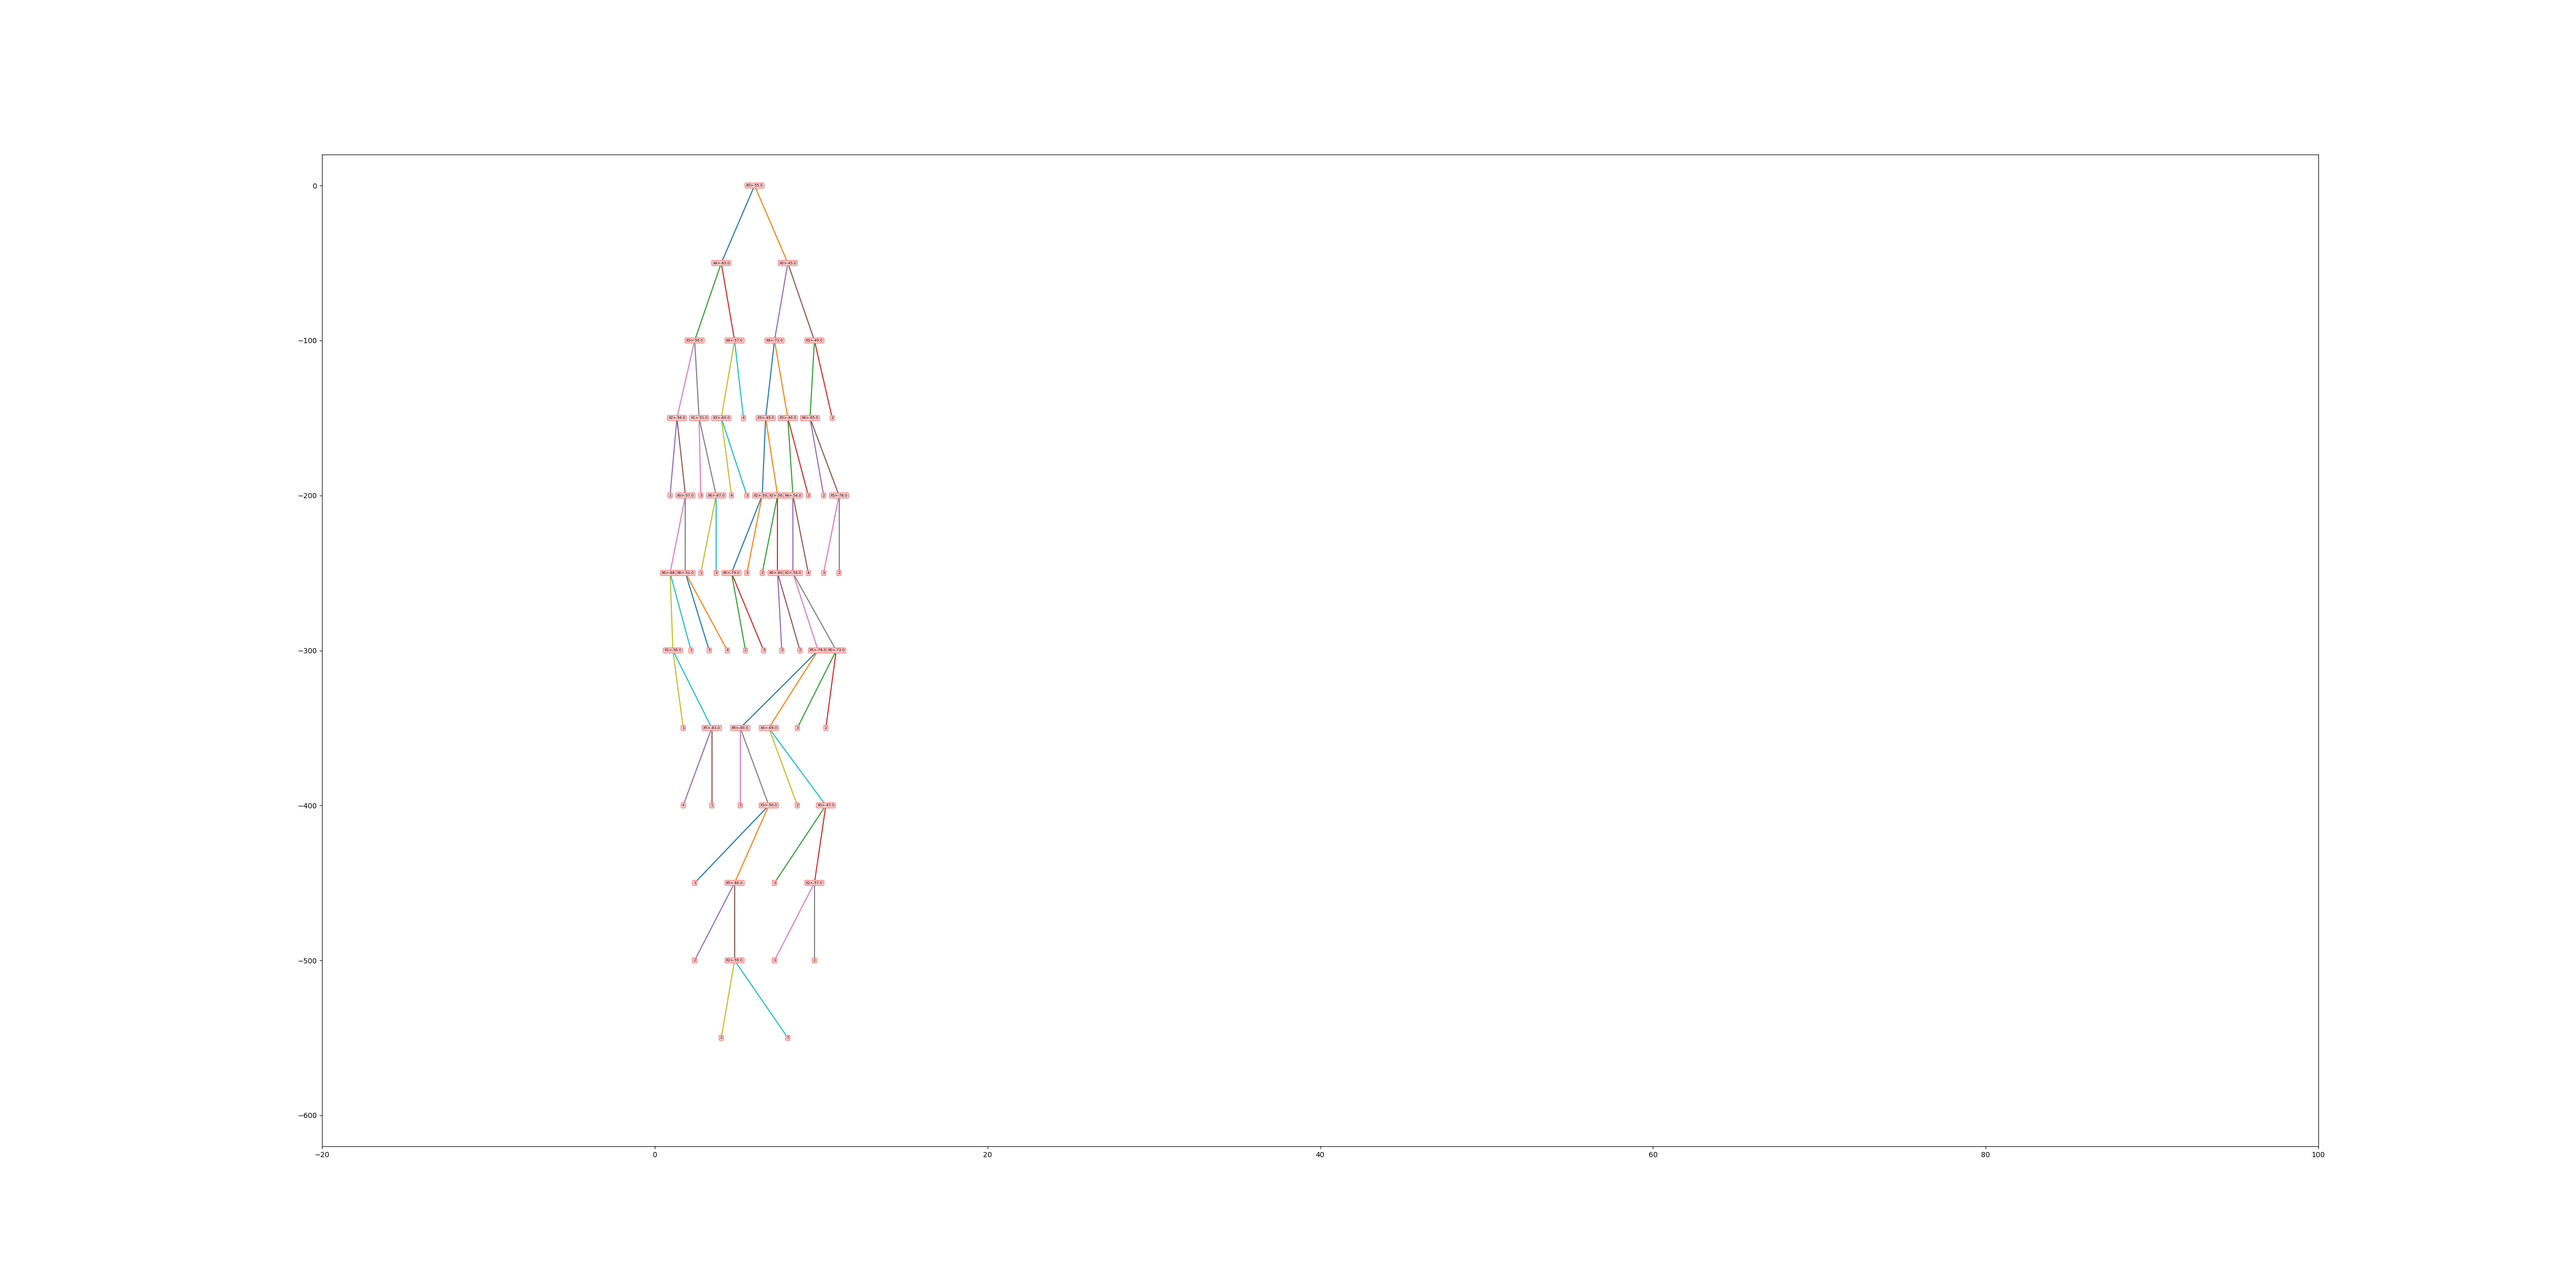
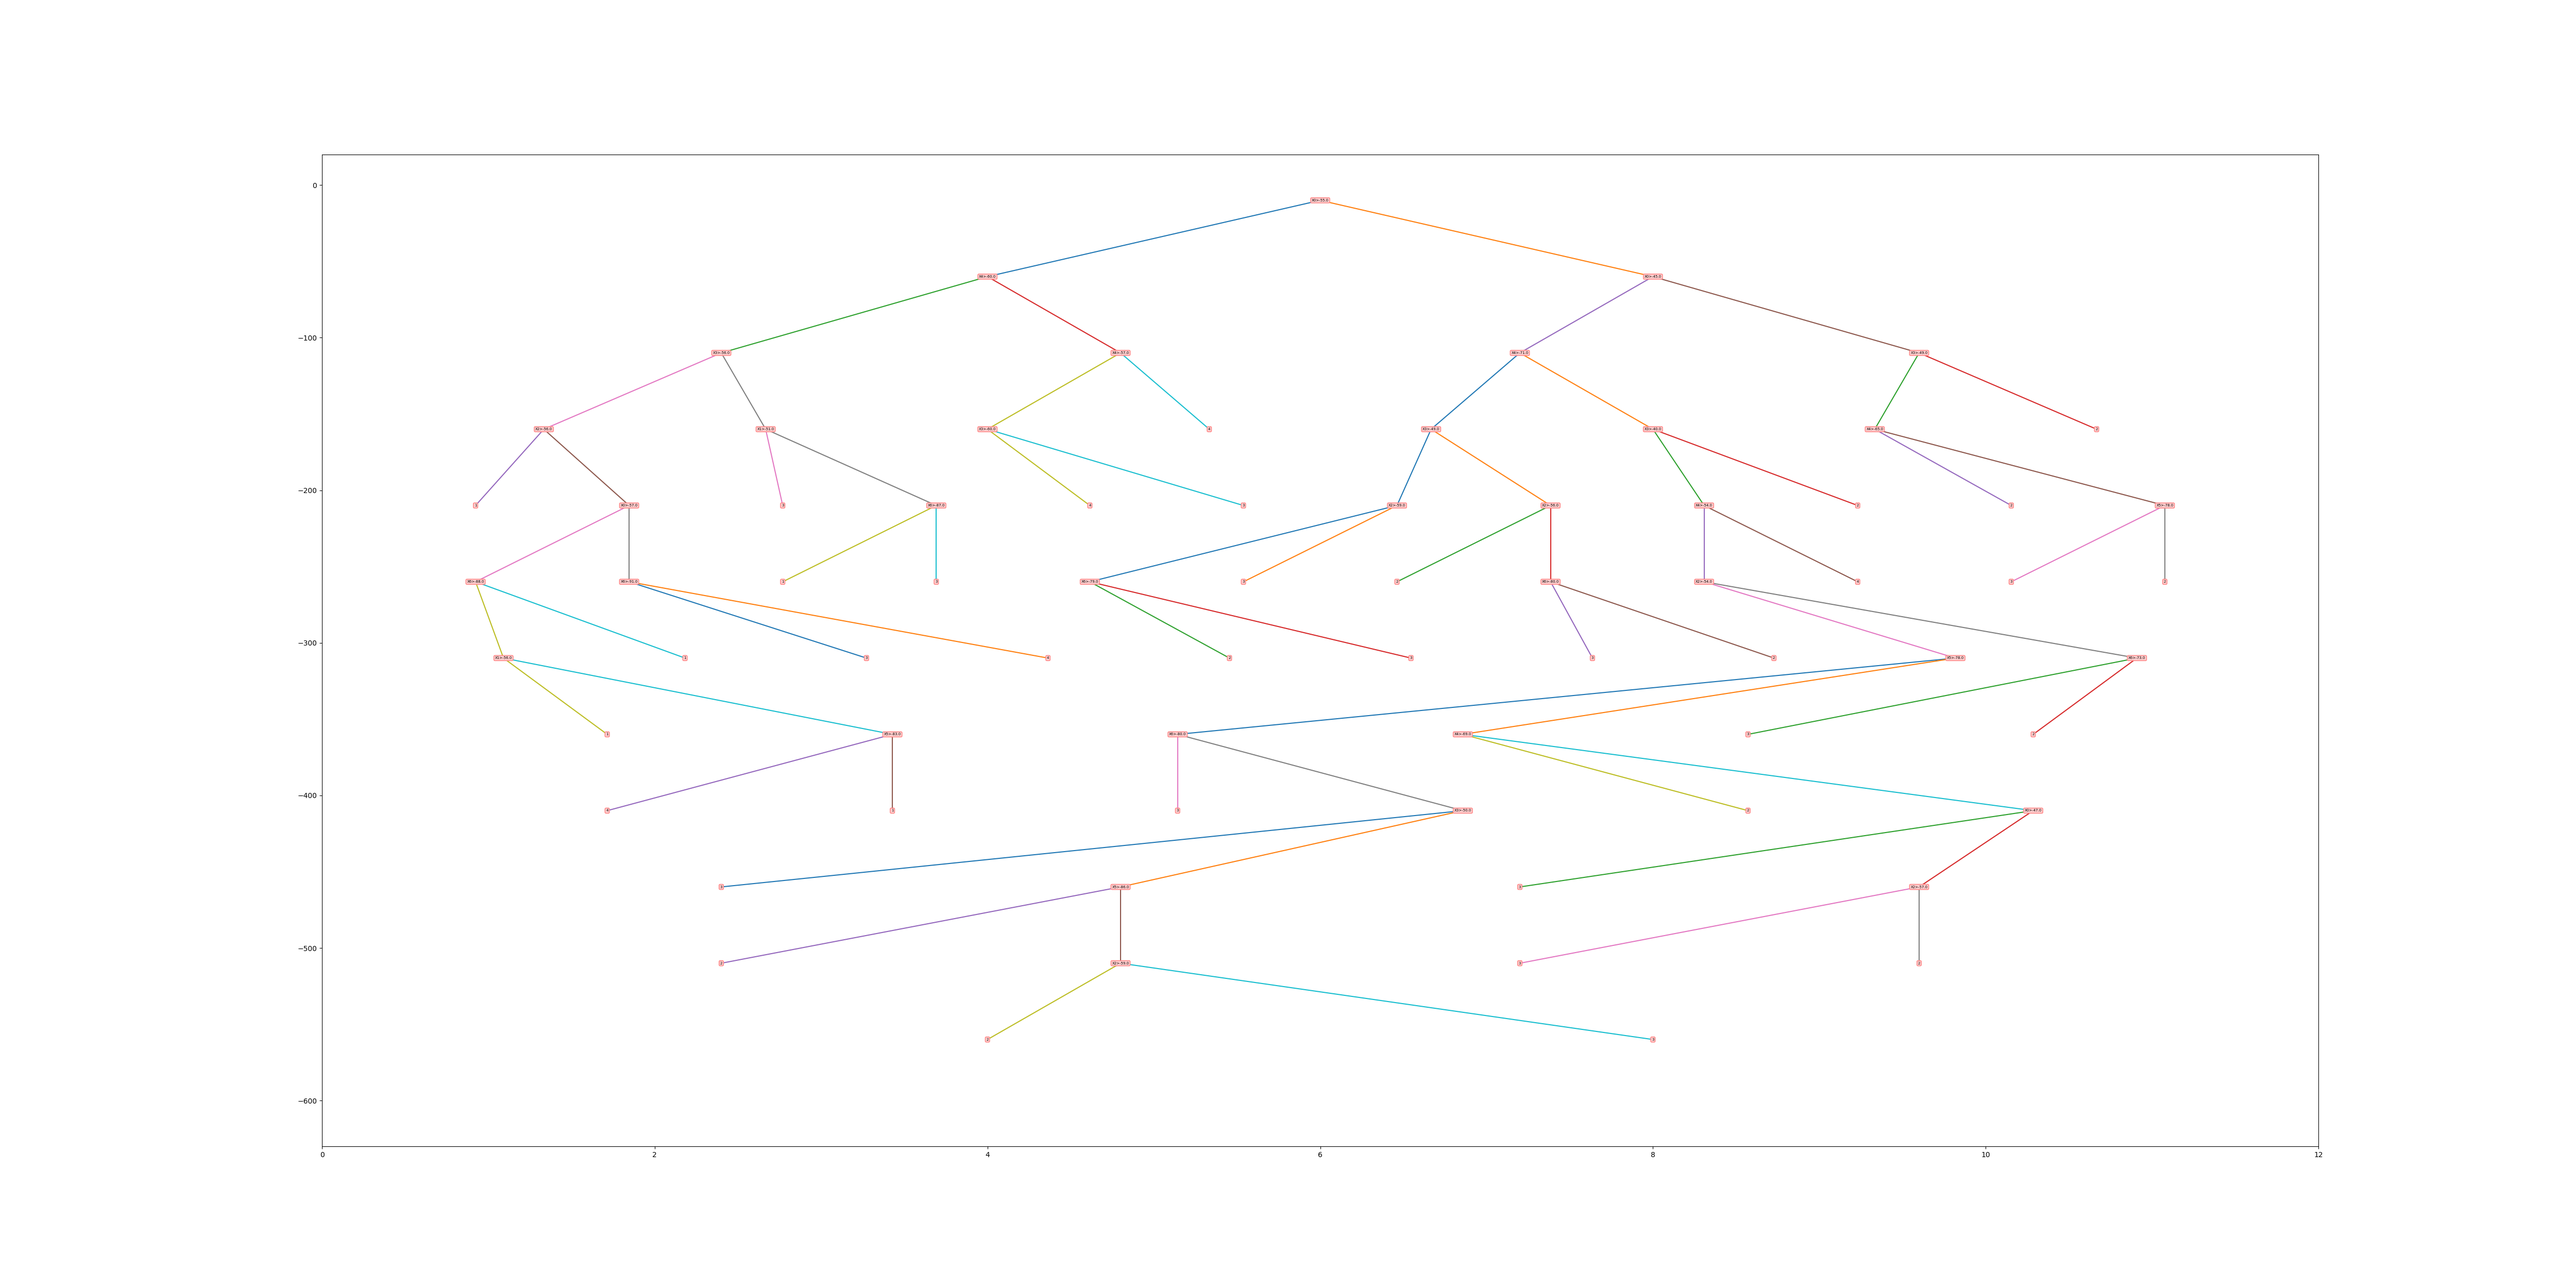
plot tree 居中对齐

diff --git a/plot_tree.py b/plot_tree.py
@@ -61,7 +61,7 @@ def plot_tree(dictree):
         if len(depth_node_dict[d]) >= max_row_length:
             max_row_length = len(depth_node_dict[d])
     plt.figure(figsize=(50, 25))
-    height=0
+    height=-10
     base_x_incre=1
     max_width=max_row_length*base_x_incre
     for d in depth_node_dict:
@@ -85,7 +85,7 @@ def plot_tree(dictree):
                 # plt.plot([x, x + d], [y, y - extend])
                 plt.plot([node_info_dict[node_id]["pos"][0], left_pos[0]], [node_info_dict[node_id]["pos"][1], left_pos[1]])
                 plt.plot([node_info_dict[node_id]["pos"][0], right_pos[0]], [node_info_dict[node_id]["pos"][1], right_pos[1]])
-    plt.xlim(-20, 100)
+    plt.xlim(-max_width*0.0, max_width)
     plt.ylim(height-20, 20)
     plt.savefig('tree.png')
     plt.show()
